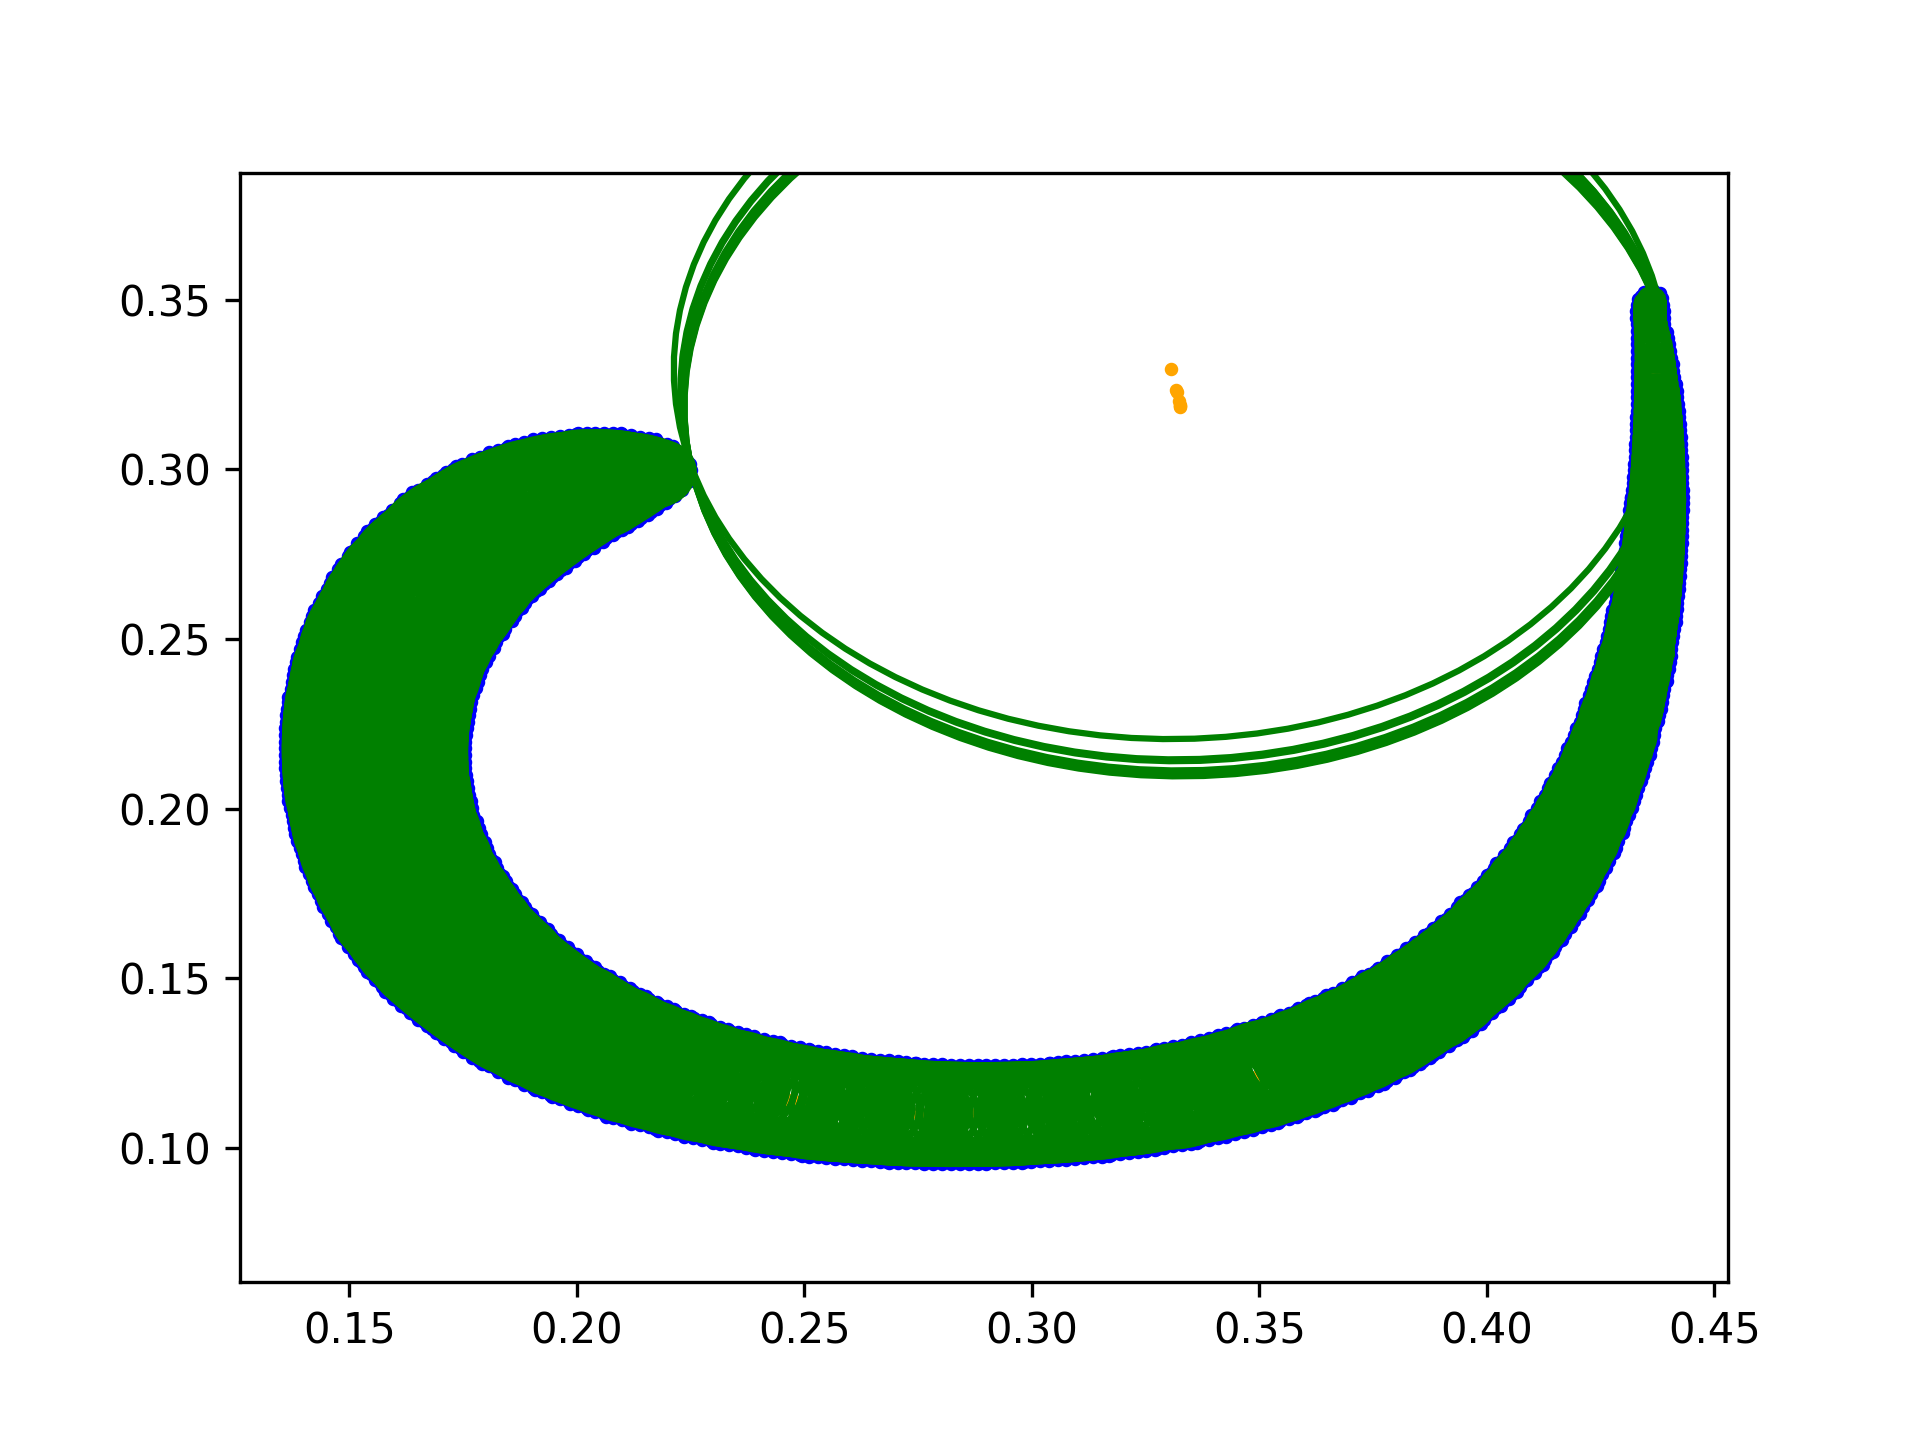
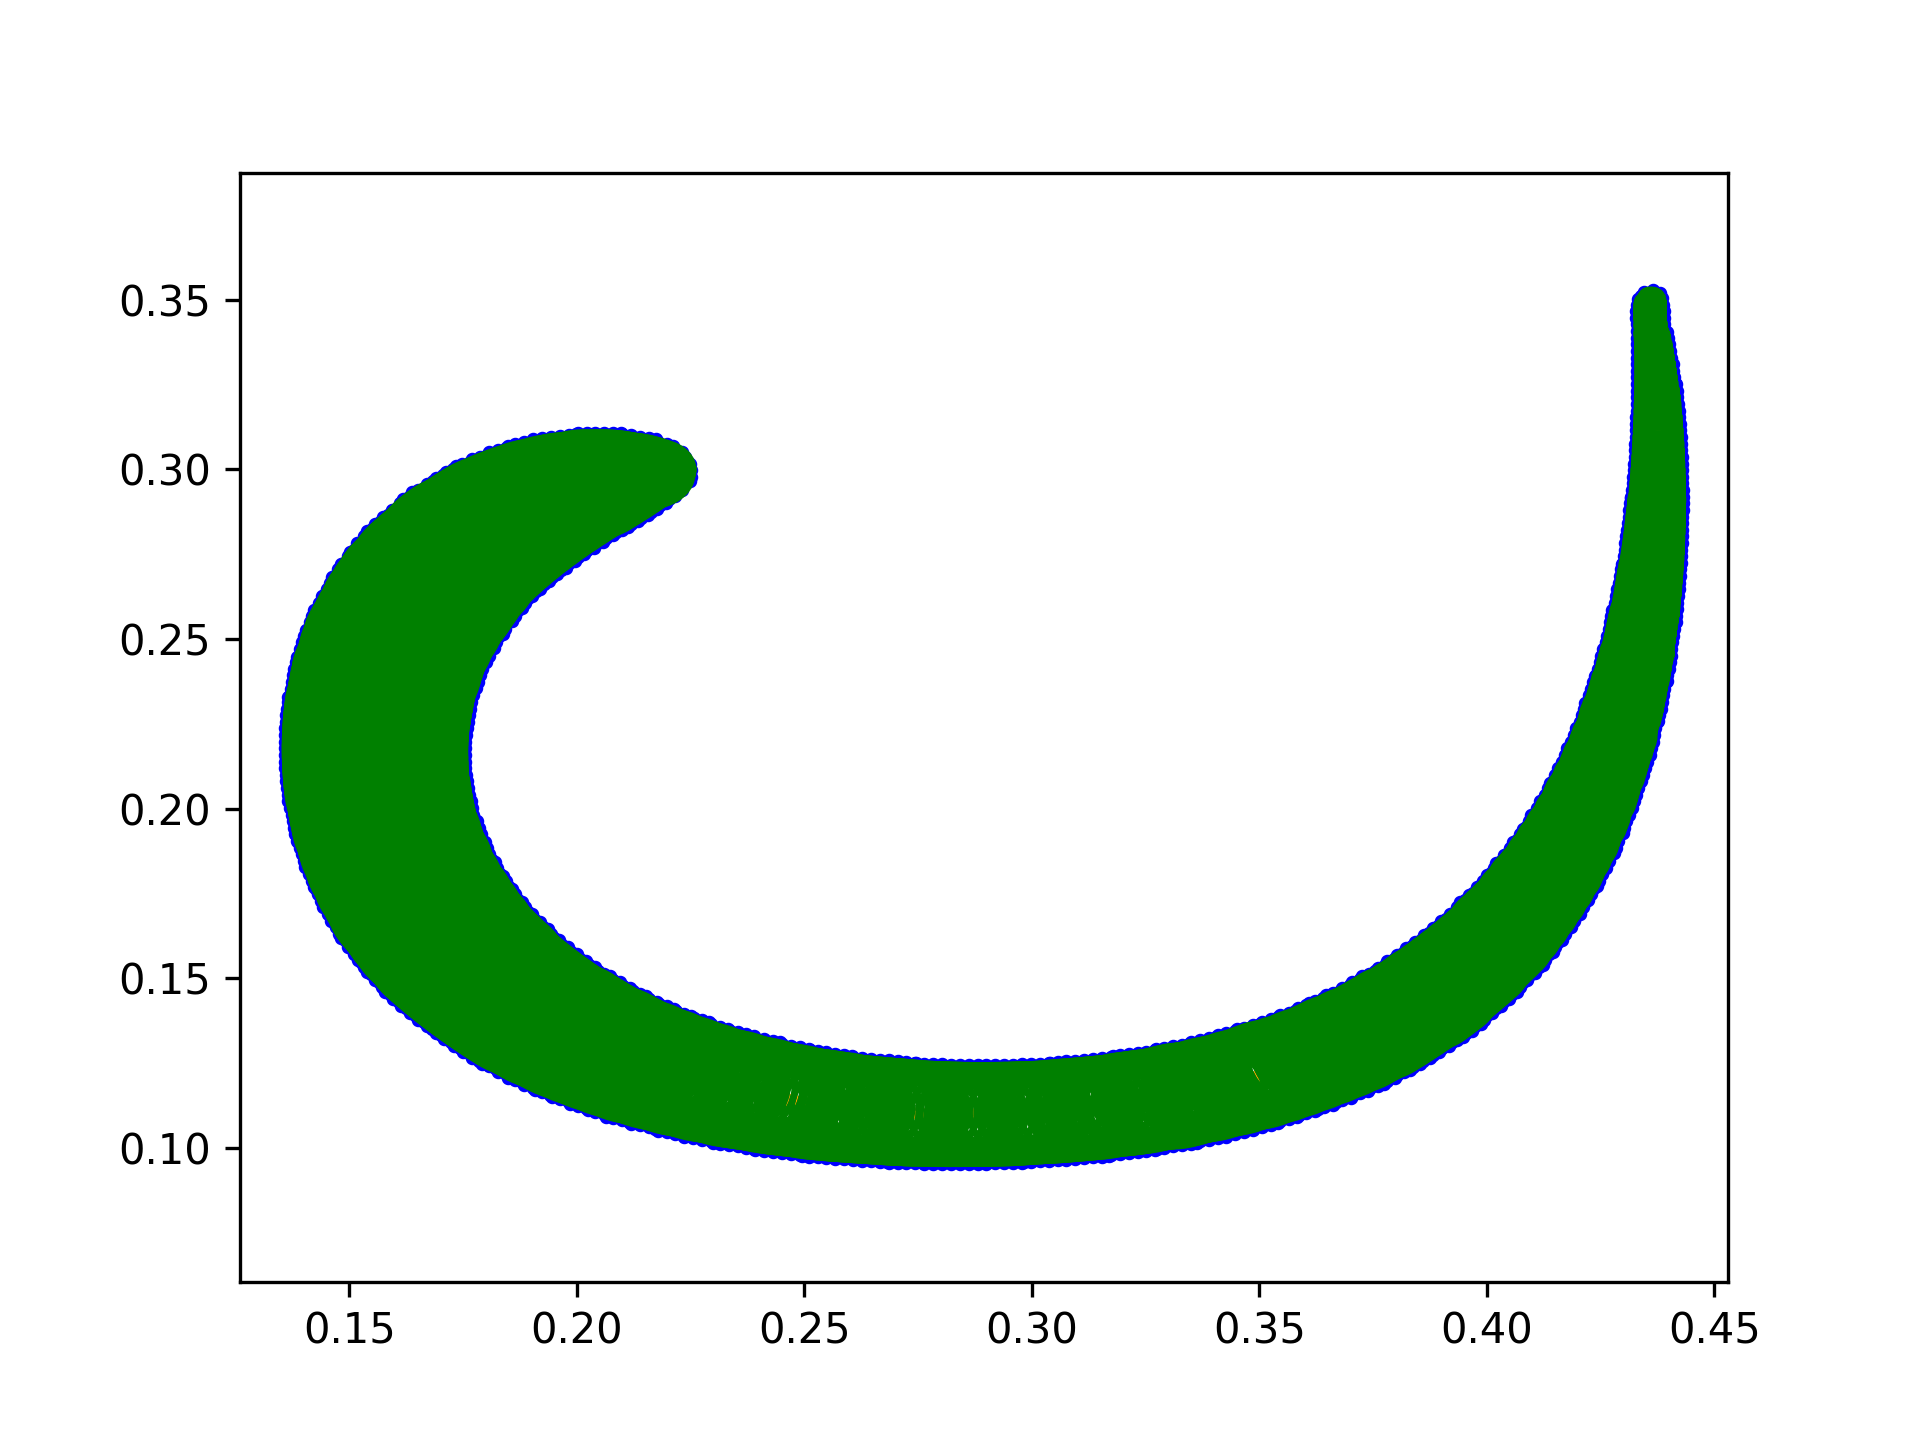
Setup for thin Case?:)

diff --git a/3DFIG.py b/3DFIG.py
@@ -10,54 +10,80 @@ from mpl_toolkits import mplot3d
 import matplotlib.pyplot as plt
 #Loads Data from results
 plt.rcParams['figure.dpi'] = 300
-with open('SkeleSave.dat','r') as csvfile:
-    data = csv.reader(csvfile, delimiter = ',')
-    tx = []
-    ty = []
-    tz = []
-    tr = []
+#with open('SkeleSave.dat','r') as csvfile:
+#    data = csv.reader(csvfile, delimiter = ',')
+#    tx = []
+#    ty = []
+#    tz = []
+#    tr = []
+#    i = 0
+#    for row in data:
+#        if str(row[0]) == 'x':
+#            a = 0
+#        else:
+#            i += 1
+#            x = float(row[0])
+#            y = float(row[1])
+#            z = float(row[2])
+#            r = float(row[3])
+#            print(i)
+#            if x > 0 and x < 3 and y > 0 and y < 3 and z > -3 and z < 3:
+#                tx.append(x)
+#                ty.append(y)
+#                tz.append(z)
+#                tr.append(r)
+                        
+with open('vof_points_norm_0650.dat','r') as csvfile:
+    data = csv.reader(csvfile, delimiter = ' ')
+    ttx = []
+    tty = []
+    ttz = []
+    tnx = []
+    tny = []
+    tnz = []
     i = 0
     for row in data:
         if str(row[0]) == 'x':
             a = 0
-        else:
-            i += 1
-            x = float(row[0])
-            y = float(row[1])
-            z = float(row[2])
-            r = float(row[3])
-            print(i)
-            if x > 0 and x < 3 and y > 0 and y < 3 and z > -3 and z < 3:
-                tx.append(x)
-                ty.append(y)
-                tz.append(z)
-                tr.append(r)
-                        
-# with open('disk1.dat','r') as csvfile:
-#     data = csv.reader(csvfile, delimiter = ' ')
-#     ttx = []
-#     tty = []
-#     ttz = []
-#     i = 0
-#     for row in data:
-#         print(i)
-#         if str(row[0]) == 'x':
-#             a = 0
-#         elif len(row) == 6:
-#             print(i)
-#             i += 1
-#             # print(row)
-#             ttx.append(float(row[0]))
-#             tty.append(float(row[1]))
-#             ttz.append(float(row[2]))
+        elif len(row) == 6:
+            if float(row[0]) > 0 and float(row[1]) > 0 and float(row[2]) > 0:
+                print(i)
+                i += 1
+                ttx.append(float(row[0]))
+                tty.append(float(row[1]))
+                ttz.append(float(row[2]))
+                tnx.append(float(row[3]))
+                tny.append(float(row[4]))
+                tnz.append(float(row[5]))
+
+#with open('vof_points_norms.dat','r') as csvfile:
+#    data = csv.reader(csvfile,delimiter = ' ')
+#    txx = []
+#    tyy = []
+#    nxx = []
+#    nyy = []
+#    i = 0
+#    for row in data:
+#        if str(row[0]) == 'x':
+#            a = 0
+#        else:
+#            txx.append(float(row[0]))
+#            tyy.append(float(row[1]))
+#            nxx.append(float(row[2]))
+#            nyy.append(float(row[3]))
+#fig = plt.figure()
+#plt.scatter(txx,tyy,5,color='blue')
+#plt.plot([txx[100],txx[100] + nxx[100]],[tyy[100],tyy[100] + nyy[100]],5,color='green')
+#plt.savefig('2DInt.png')
 
 #Next We Do the Actual Plotting 
 fig = plt.figure()
 ax = plt.axes(projection='3d') 
-p = ax.scatter3D(tx,ty,tz,s=5,c=tr,cmap='winter')
-fig.colorbar(p)
-plt.savefig('Skeleton3DFIG.png')
-# plt.clf()
-# q = ax.scatter3D(ttx,tty,ttz,s=5,c=ttz,cmap='viridis')
-# fig.colorbar(q)
-# plt.savefig('3DInterface.png')
+#p = ax.scatter3D(tx,ty,tz,s=5,c=tr,cmap='winter')
+#fig.colorbar(p)
+#plt.savefig('Skeleton3DFIG.png')
+#plt.clf()
+q = ax.scatter3D(ttx,tty,ttz,s=5,c=ttz,cmap='viridis')
+fig.colorbar(q)
+ax.plot3D([ttx[1000],ttx[1000] + tnx[1000]],[tty[1000],tty[1000] + tny[1000]],[ttz[1000],ttz[1000] + tnz[1000]])
+plt.savefig('3DInterface.png')

diff --git a/DataStructures.py b/DataStructures.py
@@ -547,9 +547,9 @@ class kdTree:
                 #        print()
                 
                 #TEST4
-                if diffdev < data[2]:
+                if diffdev < data[2]*10:
                     if dl < data[2]/10 and dr < data[2]/10:
-                        if dl > dr:
+                        if dl < dr:
                             retpts = retptsl
                             retdev = retdevl
                         else:
@@ -610,7 +610,7 @@ class kdTree:
                 diffdev = abs(dev-retdev[0])
                 dn = getDistance(data[0],node.getPoint())
                 dl = getDistance(data[0],retpts[0].getPoint()) 
-                if diffdev < data[2]:
+                if diffdev < data[2]*10:
                     if dl < data[2]/10 and dn < data[2]/10:
                         if dl < dn:
                             retpts = [node]

diff --git a/SkeleNet.py b/SkeleNet.py
@@ -561,7 +561,7 @@ class SkeleNet:
                         self.MasterTag.append(int(row[4]) - 1)
                     elif size == 6:#3D w/ no tag
                         self.IntPoints.append([float(row[0]),float(row[1]),float(row[2])])
-                        self.NormPoints.append([float(row[3]),float(row[4]),float(row[5])])
+                        self.NormPoints.append([float(row[3])*-1,float(row[4])*-1,float(row[5])*-1])
                         self.MasterTag.append(0)
                     elif size == 7:#3D w/ tag
                         self.IntPoints.append([float(row[0]),float(row[1]),float(row[2])])

diff --git a/Main.py b/Main.py
@@ -37,7 +37,7 @@ if __name__ == '__main__':
     # link = r'/spiral.dat' 
     # link = r'/vof_points_norm_0650.dat'
     # link = r'/t06.dat'
-    link = r'/vof_points_norms.dat'
+    # link = r'/vof_points_norms.dat'
     # link = r'/bagdrop.dat'
     # link = r'/disk1.dat'
     if linep:
@@ -45,9 +45,9 @@ if __name__ == '__main__':
         link = source + link
     
     net = SkeleNet(link)
-    net.solve(True)
+    net.solve(False)
     net.savedat(1)
-    net.plot([1,2])
+    net.plot([1])
     
     et = time.time()
     tt = et - st
